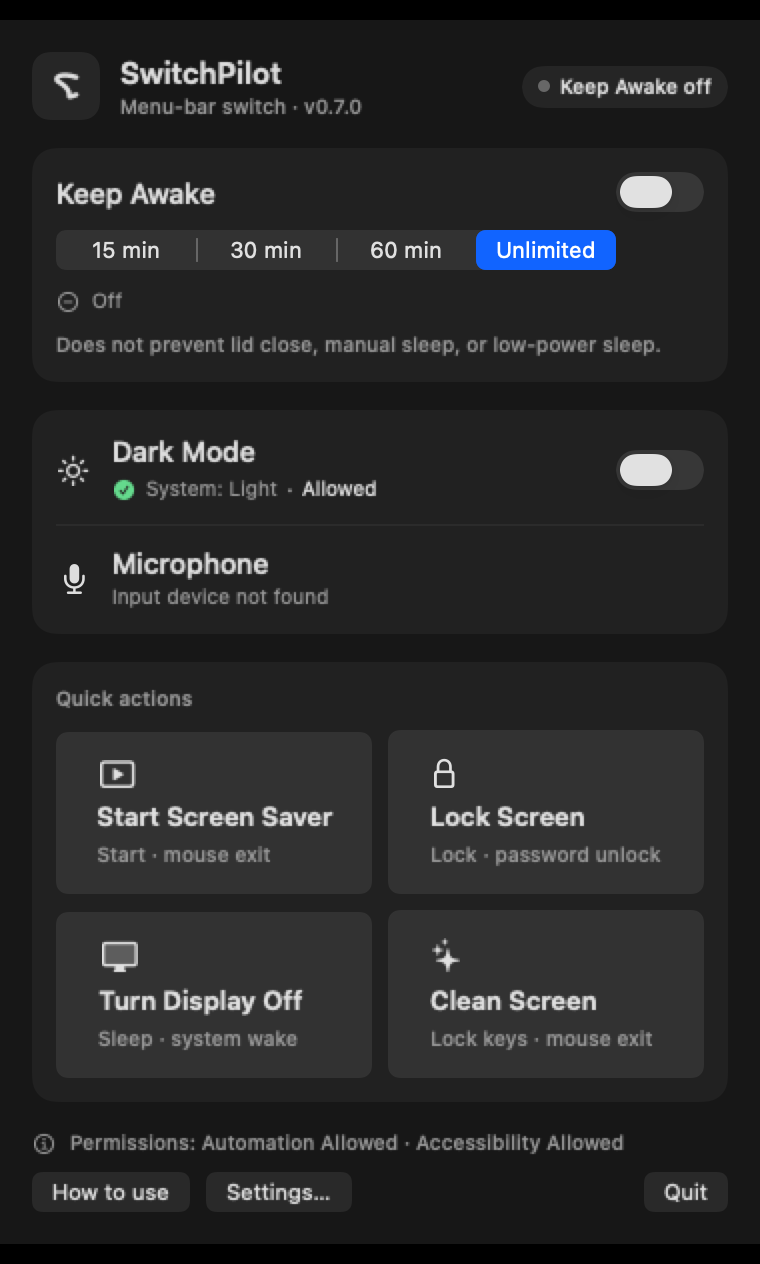
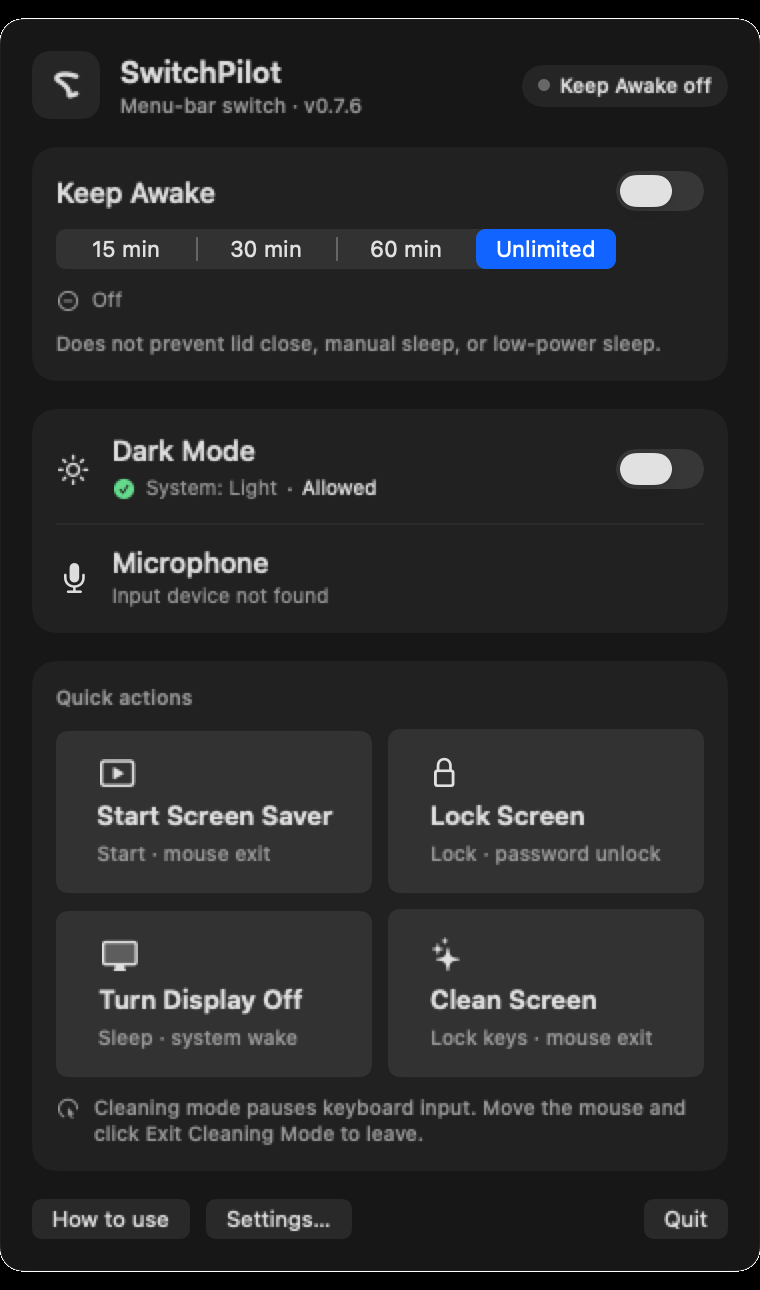
feat: add screen-cleaning exit hint and refresh docs (v0.7.6)
- Add a persistent quick-actions hint explaining that screen cleaning pauses
  keyboard input and is exited by moving the mouse and clicking Exit cleaning
  mode.
- Add English/Traditional Chinese/Japanese translations.
- Update design, requirements, testing and README docs; refresh panel and
  settings screenshots for the current 0.7.6 UI.
- Update panel height documentation to 731 pt (804 pt with the guide).
- Bump to 0.7.6.

diff --git a/app/SwitchPilot/Sources/SwitchPilot/PanelView.swift b/app/SwitchPilot/Sources/SwitchPilot/PanelView.swift
@@ -367,6 +367,15 @@ struct PanelView: View {
                 .font(.caption2)
                 .foregroundStyle(Color.secondaryInk)
             }
+            HStack(alignment: .top, spacing: 6) {
+                Image(systemName: "cursorarrow.click")
+                    .font(.caption2)
+                    .foregroundStyle(Color.secondaryInk)
+                Text(L("清洁屏幕会暂停键盘输入；移动鼠标并点击「退出清洁模式」退出。"))
+                    .font(.caption2)
+                    .foregroundStyle(Color.secondaryInk)
+                    .fixedSize(horizontal: false, vertical: true)
+            }
             if !model.screenCleaningError.isEmpty {
                 HStack(alignment: .top, spacing: 6) {
                     Image(systemName: "xmark.octagon.fill")

diff --git a/app/SwitchPilot/Sources/SwitchPilot/SettingsModel.swift b/app/SwitchPilot/Sources/SwitchPilot/SettingsModel.swift
@@ -33,7 +33,7 @@ final class SettingsModel: ObservableObject {
     }
 
     var version: String {
-        Bundle.main.object(forInfoDictionaryKey: "CFBundleShortVersionString") as? String ?? "0.7.5"
+        Bundle.main.object(forInfoDictionaryKey: "CFBundleShortVersionString") as? String ?? "0.7.6"
     }
 
     var hasAnyPermission: Bool {

diff --git a/app/SwitchPilot/Sources/SwitchPilot/PanelModel.swift b/app/SwitchPilot/Sources/SwitchPilot/PanelModel.swift
@@ -62,7 +62,7 @@ final class PanelModel: ObservableObject {
     }
 
     var version: String {
-        Bundle.main.object(forInfoDictionaryKey: "CFBundleShortVersionString") as? String ?? "0.7.5"
+        Bundle.main.object(forInfoDictionaryKey: "CFBundleShortVersionString") as? String ?? "0.7.6"
     }
 
     var statusTitle: String {

diff --git a/scripts/verify-app.py b/scripts/verify-app.py
@@ -69,7 +69,7 @@ def check_plists():
     entitlements = plistlib.loads((PKG / "Entitlements.plist").read_bytes())
     if info.get("CFBundleIdentifier") != "io.github.pengxianghao21.SwitchPilot":
         raise RuntimeError("unexpected bundle id")
-    if info.get("CFBundleShortVersionString") != "0.7.5":
+    if info.get("CFBundleShortVersionString") != "0.7.6":
         raise RuntimeError(f"unexpected bundle version: {info.get('CFBundleShortVersionString')}")
     if info.get("LSUIElement") is not True:
         raise RuntimeError("LSUIElement must be true")

diff --git a/README.ja.md b/README.ja.md
@@ -4,7 +4,7 @@
 
 [![CI](https://github.com/PilotFoundry/switchpilot/actions/workflows/ci.yml/badge.svg)](https://github.com/PilotFoundry/switchpilot/actions/workflows/ci.yml)
 
-バージョン 0.7.5 · PilotFoundry が維持する、信頼できるいくつかのシステム操作に絞ったオープンソースでプライバシー重視の小さな macOS メニューバーユーティリティです。
+バージョン 0.7.6 · PilotFoundry が維持する、信頼できるいくつかのシステム操作に絞ったオープンソースでプライバシー重視の小さな macOS メニューバーユーティリティです。
 
 > このリポジトリは、初期の調査や受け入れ検証の記録を含む完全な開発履歴を保持しています。アプリのソースコードと現在の英語ドキュメントはルートにあり、過去の資料は `artifacts/`、`evidence/`、`tooling/` などのディレクトリにあります。詳しくは [docs/RESEARCH.md](docs/RESEARCH.md) をご覧ください。
 
@@ -64,14 +64,14 @@ SwitchPilot は 4 つの UI ローカライズを提供しています：
 [最新リリース](https://github.com/PilotFoundry/switchpilot/releases/latest) では、対応するタグのソースからビルドした universal（Apple Silicon + Intel）版 macOS アプリを配布しています。現在このプロジェクトには Developer ID 証明書がないため、**ad-hoc 署名・未公証** のビルドです。
 
 - 要件：macOS 14 以降
-- ファイル：`SwitchPilot-0.7.5-macos-universal-adhoc.zip`
+- ファイル：`SwitchPilot-0.7.6-macos-universal-adhoc.zip`
 - ダウンロードして展開し、`SwitchPilot.app` を `/Applications` に移動
 - 初回起動時に macOS にブロックされる場合：アプリを右クリック → **開く**
 - ターミナルを使う場合は、このアプリだけに限定して実行：
   `xattr -dr com.apple.quarantine /Applications/SwitchPilot.app`
 - Gatekeeper をシステム全体で無効にしないでください
 
-zip は `./scripts/build-release` でビルドされ、SHA-256 ファイルもリリースに添付されます（`SwitchPilot-0.7.5-macos-universal-adhoc.zip.sha256`）。これはダウンロード用の便宜的なビルドであり、Developer ID／公証済みの配布物ではありません。完全に信頼したい場合は、ソースから自分でビルドして署名してください。
+zip は `./scripts/build-release` でビルドされ、SHA-256 ファイルもリリースに添付されます（`SwitchPilot-0.7.6-macos-universal-adhoc.zip.sha256`）。これはダウンロード用の便宜的なビルドであり、Developer ID／公証済みの配布物ではありません。完全に信頼したい場合は、ソースから自分でビルドして署名してください。
 
 ## 動作環境
 

diff --git a/README.md b/README.md
@@ -4,7 +4,7 @@
 
 [![CI](https://github.com/PilotFoundry/switchpilot/actions/workflows/ci.yml/badge.svg)](https://github.com/PilotFoundry/switchpilot/actions/workflows/ci.yml)
 
-Version 0.7.5 · An open-source, privacy-first macOS menu bar utility for a few
+Version 0.7.6 · An open-source, privacy-first macOS menu bar utility for a few
 reliable system controls, maintained by PilotFoundry.
 
 > This repository preserves the complete development history, including its
@@ -27,7 +27,7 @@ reliable system controls, maintained by PilotFoundry.
 | Lock screen | Sends the system lock shortcut, gated by Automation + Accessibility |
 | Display sleep | Uses the public `pmset displaysleepnow` command |
 | Microphone mute | Capability-aware mute for the default input device; no fake state when unsupported |
-| Screen cleaning | Full-screen overlay, keyboard input suspended, mouse exit, hidden last-resort timeout |
+| Screen cleaning | Full-screen overlay, keyboard input suspended, persistent exit hint, mouse exit, hidden last-resort timeout |
 | Login at start | Optional `SMAppService` login item, controlled in Settings |
 | Global hotkeys | Fixed `⌃⌥⌘K` / `⌃⌥⌘S` shortcuts, disabled by default |
 | Localization | English, Simplified Chinese, Traditional Chinese and Japanese; system language by default, with an in-app language override and restart |
@@ -80,7 +80,7 @@ asset is a universal (Apple Silicon + Intel) macOS app built from the tagged sou
 does not currently have a Developer ID certificate.
 
 - Requirement: macOS 14 or later
-- Asset: `SwitchPilot-0.7.5-macos-universal-adhoc.zip`
+- Asset: `SwitchPilot-0.7.6-macos-universal-adhoc.zip`
 - Download, unzip, move `SwitchPilot.app` to `/Applications`
 - On first launch macOS may block it: **right-click the app → Open**
 - If you prefer a terminal command, limit it to this app:
@@ -88,7 +88,7 @@ does not currently have a Developer ID certificate.
 - Do not disable Gatekeeper system-wide
 
 The zip is built by `./scripts/build-release`; its SHA-256 checksum is published
-next to the asset (`SwitchPilot-0.7.5-macos-universal-adhoc.zip.sha256`). This is a convenience build, not a Developer ID/notarized
+next to the asset (`SwitchPilot-0.7.6-macos-universal-adhoc.zip.sha256`). This is a convenience build, not a Developer ID/notarized
 distribution. Build from source if you want to inspect or sign it yourself.
 
 ## Requirements

diff --git a/README.zh-CN.md b/README.zh-CN.md
@@ -4,7 +4,7 @@
 
 [![CI](https://github.com/PilotFoundry/switchpilot/actions/workflows/ci.yml/badge.svg)](https://github.com/PilotFoundry/switchpilot/actions/workflows/ci.yml)
 
-版本 0.7.5 · 由 PilotFoundry 维护的开源、隐私优先 macOS 菜单栏工具，只保留少数可靠、低权限的系统控制。
+版本 0.7.6 · 由 PilotFoundry 维护的开源、隐私优先 macOS 菜单栏工具，只保留少数可靠、低权限的系统控制。
 
 > 本仓库保留完整开发历史，包括早期研究、失败实验和现场验收记录。应用源码与当前英文文档位于根目录；历史材料在 `artifacts/`、`evidence/`、`tooling/` 等目录，详见 [docs/RESEARCH.md](docs/RESEARCH.md)。
 
@@ -23,7 +23,7 @@
 | 锁定屏幕 | 发送系统锁屏快捷键；需要 Automation + 辅助功能 |
 | 关闭显示器 | 调用公开命令 `pmset displaysleepnow` |
 | 麦克风静音 | 按默认输入设备能力静音；不支持时诚实提示，不伪造状态 |
-| 屏幕清洁 | 全屏遮罩，暂停键盘输入，鼠标点击退出，内部保留最后兜底 |
+| 屏幕清洁 | 全屏遮罩，暂停键盘输入，面板内提示退出方式，鼠标点击退出，内部保留最后兜底 |
 | 登录时启动 | 可选 `SMAppService` 登录项，由设置控制 |
 | 全局快捷键 | 固定 `⌃⌥⌘K` / `⌃⌥⌘S`，默认关闭 |
 | 多语言 | English、简体中文、繁體中文、日本語；默认跟随系统，也可在设置中覆盖并重启应用 |
@@ -64,7 +64,7 @@ SwitchPilot 提供四套 UI 本地化：
 Release 提供由对应 tag 源码构建的 universal（Apple Silicon + Intel）macOS 应用。当前项目没有 Developer ID 证书，因此它是 **ad-hoc 签名、未公证** 的版本。
 
 - 要求：macOS 14 或更高
-- 文件：`SwitchPilot-0.7.5-macos-universal-adhoc.zip`
+- 文件：`SwitchPilot-0.7.6-macos-universal-adhoc.zip`
 - 下载、解压后把 `SwitchPilot.app` 放到 `/Applications`
 - 首次打开可能被 macOS 拦截：右键点击应用 → **打开**
 - 如使用终端，只对该应用执行：

diff --git a/README.zh-Hant.md b/README.zh-Hant.md
@@ -4,7 +4,7 @@
 
 [![CI](https://github.com/PilotFoundry/switchpilot/actions/workflows/ci.yml/badge.svg)](https://github.com/PilotFoundry/switchpilot/actions/workflows/ci.yml)
 
-版本 0.7.5 · 由 PilotFoundry 維護的開源、隱私優先 macOS 選單列工具，只保留少數可靠、低權限的系統控制。
+版本 0.7.6 · 由 PilotFoundry 維護的開源、隱私優先 macOS 選單列工具，只保留少數可靠、低權限的系統控制。
 
 > 本儲存庫保留完整開發歷史，包括早期研究、失敗實驗和現場驗收記錄。應用程式原始碼與目前英文文件位於根目錄；歷史材料在 `artifacts/`、`evidence/`、`tooling/` 等目錄，詳見 [docs/RESEARCH.md](docs/RESEARCH.md)。
 
@@ -64,14 +64,14 @@ SwitchPilot 提供四套 UI 本地化：
 [最新 Release](https://github.com/PilotFoundry/switchpilot/releases/latest) 提供由對應 tag 原始碼建置的 universal（Apple Silicon + Intel）macOS 應用。目前專案沒有 Developer ID 憑證，因此它是 **ad-hoc 簽名、未公證** 的版本。
 
 - 需求：macOS 14 或以上
-- 檔案：`SwitchPilot-0.7.5-macos-universal-adhoc.zip`
+- 檔案：`SwitchPilot-0.7.6-macos-universal-adhoc.zip`
 - 下載、解壓縮後把 `SwitchPilot.app` 放到 `/Applications`
 - 首次開啟可能被 macOS 阻擋：右鍵點擊應用程式 → **打開**
 - 若使用終端機，只對該應用程式執行：
   `xattr -dr com.apple.quarantine /Applications/SwitchPilot.app`
 - 不要全域關閉 Gatekeeper
 
-zip 由 `./scripts/build-release` 建置，SHA-256 檔案會隨 release 一起提供（`SwitchPilot-0.7.5-macos-universal-adhoc.zip.sha256`）。這是方便下載的建置，不是 Developer ID／公證發佈；如需完全可信，請自行從原始碼建置並簽名。
+zip 由 `./scripts/build-release` 建置，SHA-256 檔案會隨 release 一起提供（`SwitchPilot-0.7.6-macos-universal-adhoc.zip.sha256`）。這是方便下載的建置，不是 Developer ID／公證發佈；如需完全可信，請自行從原始碼建置並簽名。
 
 ## 環境要求
 

diff --git a/docs/DESIGN.md b/docs/DESIGN.md
@@ -1,6 +1,6 @@
 # UI/UX design
 
-Status: current baseline **v0.7.5**. English is canonical. Screenshots live in
+Status: current baseline **v0.7.6**. English is canonical. Screenshots live in
 `docs/images/`; all UI must be readable in light and dark appearances.
 
 ## 1. Design principles
@@ -38,8 +38,8 @@ Status: current baseline **v0.7.5**. English is canonical. Screenshots live in
 
 ## 3. Panel structure
 
-Width: 380 pt. Normal height: about 709 pt; with the permission guide: about
-782 pt. The panel is scroll-safe on smaller displays.
+Width: 380 pt. Normal height: about 731 pt; with the permission guide: about
+804 pt. The panel is scroll-safe on smaller displays.
 
 1. **Header** — app mark/name, version, current keep-awake summary.
 2. **Keep awake** — toggle, 15/30/60/unlimited picker, readback state.
@@ -47,6 +47,8 @@ Width: 380 pt. Normal height: about 709 pt; with the permission guide: about
    capability/state.
 4. **Quick actions** — screen saver, lock screen, display sleep, screen
    cleaning. Each tile has an icon, title, short subtitle and optional badge.
+   A persistent caption below the grid explains the cleaning-mode exit: pause
+   keyboard input, move the mouse and click **Exit cleaning mode**.
 5. **Permissions** — only when needed; readiness summary, grant/recheck
    actions, diagnostics disclosure.
 6. **Footer** — How to use, Settings, Quit. Permission state stays in the

diff --git a/docs/PRD.md b/docs/PRD.md
@@ -1,6 +1,6 @@
 # Product requirements
 
-Status: current baseline **v0.7.5** (2026-10-18). English is the canonical
+Status: current baseline **v0.7.6** (2026-10-18). English is the canonical
 source for this document.
 
 ## 1. Problem
@@ -72,16 +72,16 @@ See [CORE.md](CORE.md) for the admission rules.
 
 ## 6. UX requirements
 
-- Panel width 380 pt; normal height about 709 pt, guided/permission state up to
-  about 782 pt.
+- Panel width 380 pt; normal height about 731 pt, guided/permission state up to
+  about 804 pt.
 - Settings is a separate window about 460 pt wide.
 - Controls use standard AppKit/SwiftUI buttons, toggles, pickers and menus.
 - Light and dark mode meet the contrast tokens checked by `make smoke`.
 - The menu-bar icon is a template image and does not use color as the only
   state indicator.
 - Permission-required actions are disabled or explained, never fake success.
-- Screen cleaning must show a visible mouse exit and must not offer a keyboard
-  exit by design.
+- Screen cleaning must show a visible mouse exit and a persistent in-panel hint
+  explaining how to exit; it must not offer a keyboard exit by design.
 - Language names are shown in their own language; the current selection is
   visible; a **Quit and Reopen** action is available.
 

diff --git a/docs/en/TESTING.md b/docs/en/TESTING.md
@@ -44,7 +44,7 @@ state. Do not record a check as passed if it was not executed.
 | Lock screen | Automation + Accessibility, lock, password unlock |
 | Display sleep | Screen sleeps; wake behavior follows system settings |
 | Microphone | Mute/unmute on supported input; unsupported explanation |
-| Screen cleaning | Overlay, keyboard suspended, mouse exit, no countdown in normal mode, hidden timeout behavior |
+| Screen cleaning | Overlay, keyboard suspended, visible mouse-exit hint, mouse exit, no countdown in normal mode, hidden timeout behavior |
 | Login item | Register/unregister, logout/reboot launch |
 | Hotkeys | Default off, enable, conflict error, disable, real key trigger |
 | Settings | Revoke disclosure, advanced reset confirmation, no automatic tccutil; Command-W and Escape close the window |
@@ -56,7 +56,7 @@ state. Do not record a check as passed if it was not executed.
 ## Release artifact checks
 
 ```sh
-VERSION=0.7.5
+VERSION=0.7.6
 ZIP=dist/SwitchPilot-${VERSION}-macos-universal-adhoc.zip
 shasum -a 256 -c "$ZIP.sha256"
 unzip -q "$ZIP"

diff --git a/docs/TESTPLAN.md b/docs/TESTPLAN.md
@@ -1,6 +1,6 @@
 # Test plan
 
-Status: current baseline **v0.7.5**. English is canonical. Automated checks are
+Status: current baseline **v0.7.6**. English is canonical. Automated checks are
 not a substitute for manual TCC, hardware, login, screen-cleaning or release
 verification.
 
@@ -102,7 +102,7 @@ Expected:
 | Lock screen | Automation + Accessibility, lock, password unlock |
 | Display sleep | Screen sleeps; wake behavior follows system settings |
 | Microphone | Mute/unmute on supported input; unsupported explanation |
-| Screen cleaning | Overlay, keyboard suspended, mouse exit, hidden timeout, no normal countdown |
+| Screen cleaning | Overlay, keyboard suspended, mouse exit hint, mouse exit, hidden timeout, no normal countdown |
 | Login item | Register/unregister, logout/reboot launch |
 | Hotkeys | Default off, enable, conflict error, disable, real trigger |
 | Settings | Revoke disclosure, advanced reset confirmation, no automatic tccutil; Command-W/Escape close |
